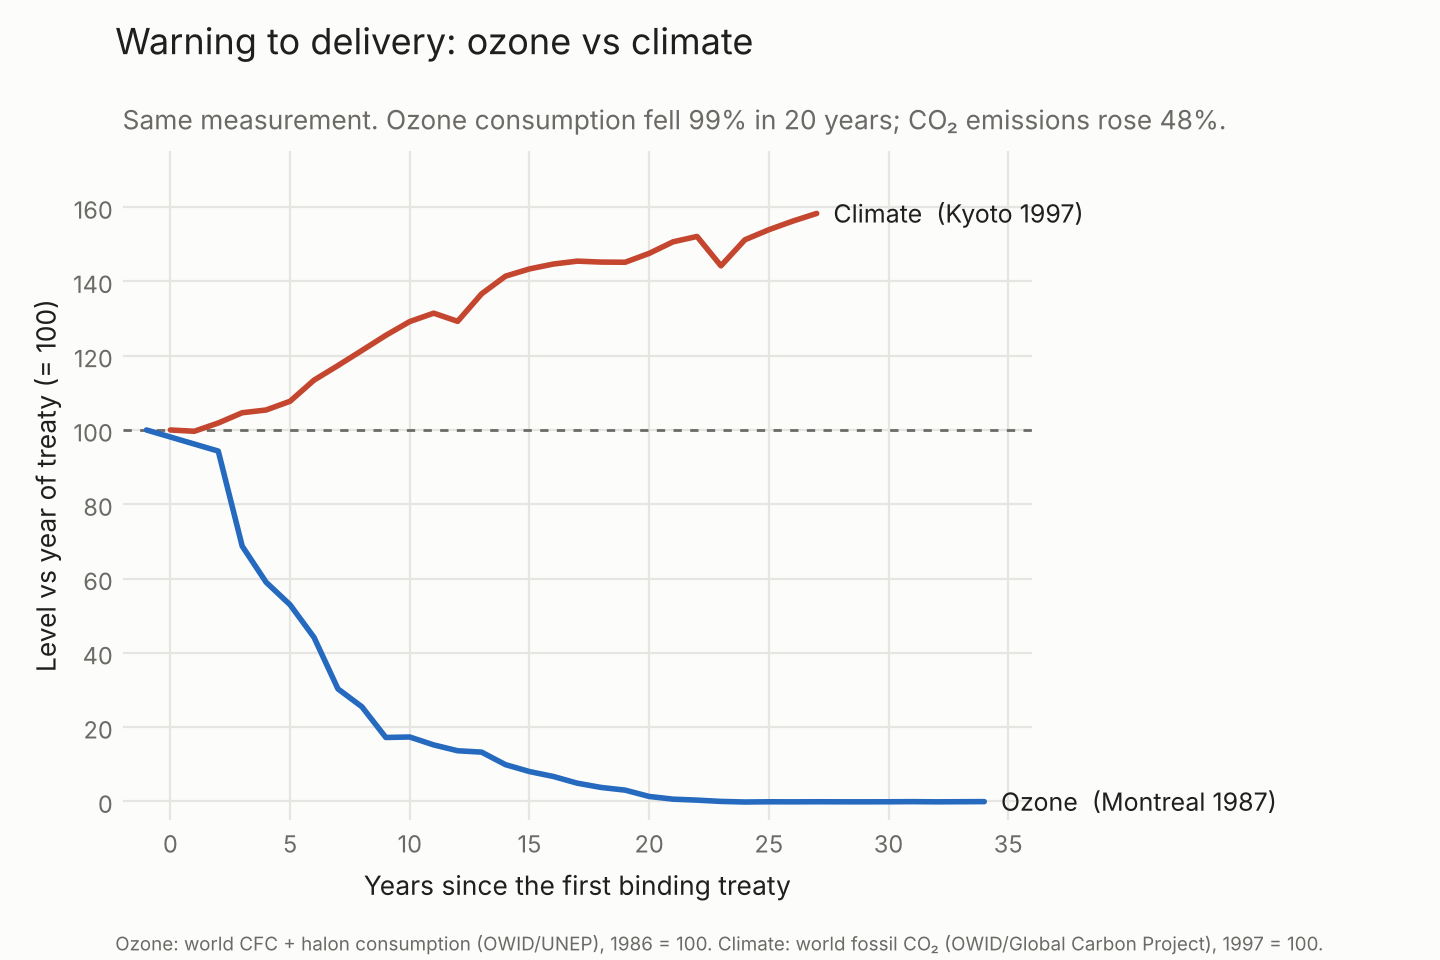
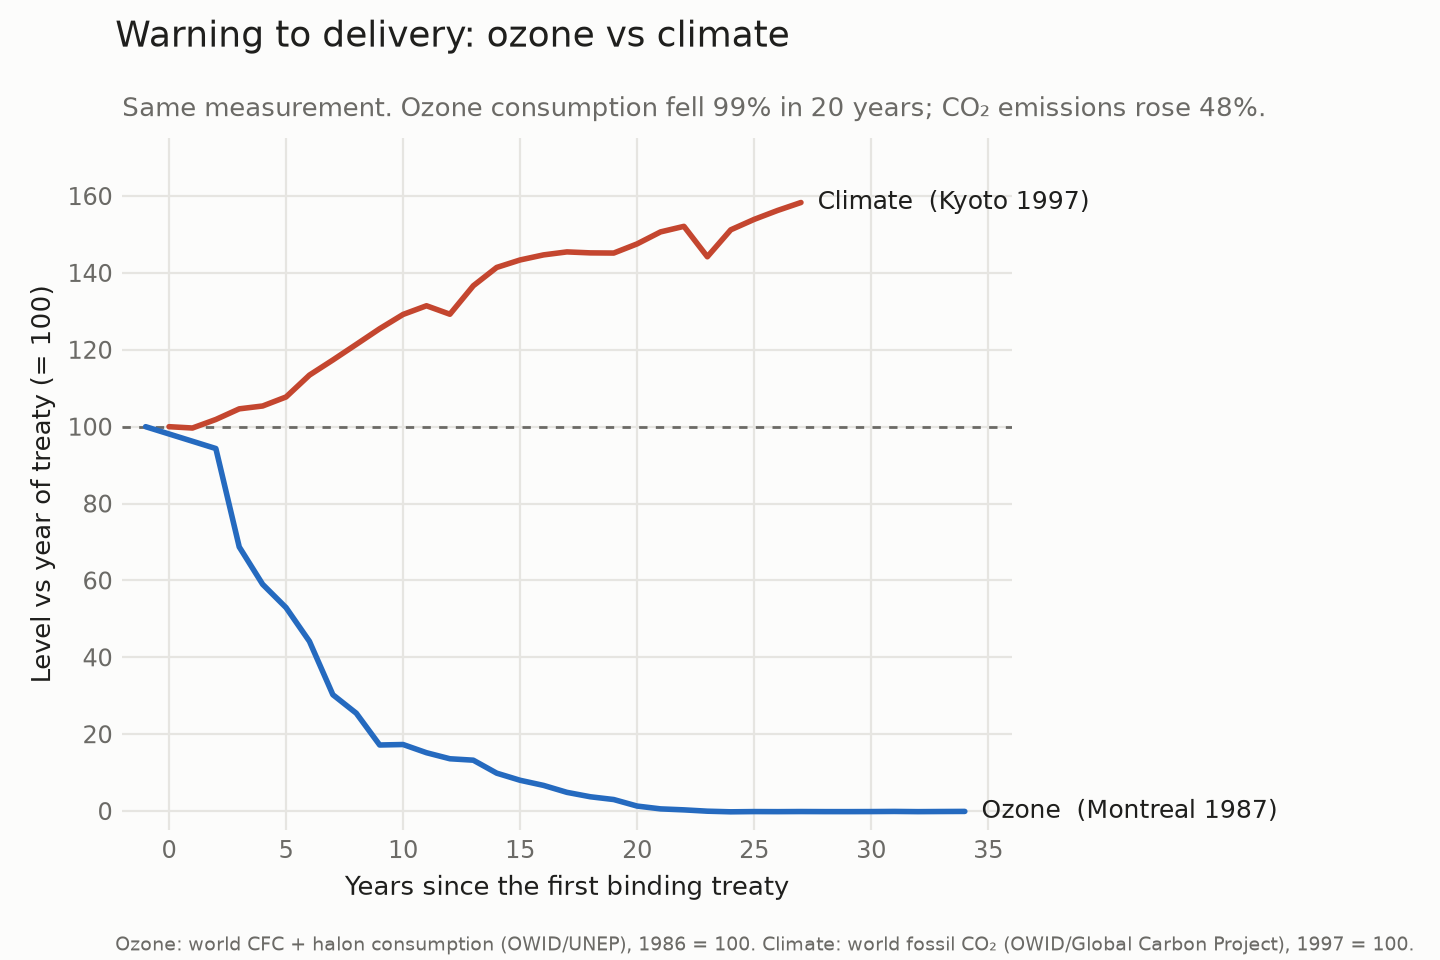
Weekly run 2026-10-21: all checks passed

diff --git a/results/weekly/2026-10-21/SUMMARY.md b/results/weekly/2026-10-21/SUMMARY.md
@@ -1,0 +1,45 @@
+# EMO weekly run, 2026-10-21
+
+**Result: all checks passed**
+
+## Data refresh
+
+| file | status | changed | rows |
+|---|---|---|---|
+| owid_annual_co2_emissions.csv | ok | no | 29384 |
+| owid_ozone_depleting_substance_consumption.csv | ok | no | 5642 |
+| owid_foreign_aid_share_of_gni.csv | ok | no | 2114 |
+| owid_ucdp_death_rate_armed_conflicts.csv | ok | no | 7561 |
+| openalex_articles_multicountry_by_year.json | ok | no | 200 |
+| openalex_articles_anycountry_by_year.json | ok | no | 200 |
+| openalex_articles_multicountry_by_year_excl_CN_ID.json | ok | no | 200 |
+| openalex_articles_anycountry_by_year_excl_CN_ID.json | ok | no | 200 |
+| openalex_single_country_2020_by_country.json | ok | no | 200 |
+| openalex_single_country_2025_by_country.json | ok | no | 200 |
+
+Not refreshed by design (manual or hand-coded): NHC track errors, DAC event dates, forecast ledger.
+
+## Frozen records
+
+- Forecast ledger sha256 matches the archived hash (677eaf342898…).
+- `rdl_backtest_run` reproduces `analysis/rdl_backtest_run_output.txt`.
+- `rdl_backtest_heldout` reproduces `analysis/rdl_backtest_heldout_output.txt`.
+- `rdl_v03_development` reproduces `analysis/rdl_v03_development_output_run2.txt`.
+- `rdl_v03_heldout` reproduces `analysis/rdl_v03_heldout_output.txt`.
+- `rdl_v04_test` not run: needs the Oslo-Seattle / IRD component file (requested 20 Oct 2026, not received).
+
+## Analyses
+
+- `dac_ozone`: first recorded run
+- `dac_compare_ozone_climate`: first recorded run
+  - figure `analysis/dac_ozone_vs_climate.png` changed; copy kept in this folder
+- `organismality_plane`: first recorded run
+  - figure `analysis/organismality_plane.png` changed; copy kept in this folder
+- `information_time_nhc`: first recorded run
+- `score_forecast_ledger`: first recorded run
+
+Note: the subtitle of `dac_ozone_vs_climate.png` states fixed percentages (ozone -99 % in 20 years, CO₂ +48 %). If `dac_compare_ozone_climate` changed, check that text.
+
+## Tests
+
+- pytest: 95 passed, 1 warning in 9.06s
